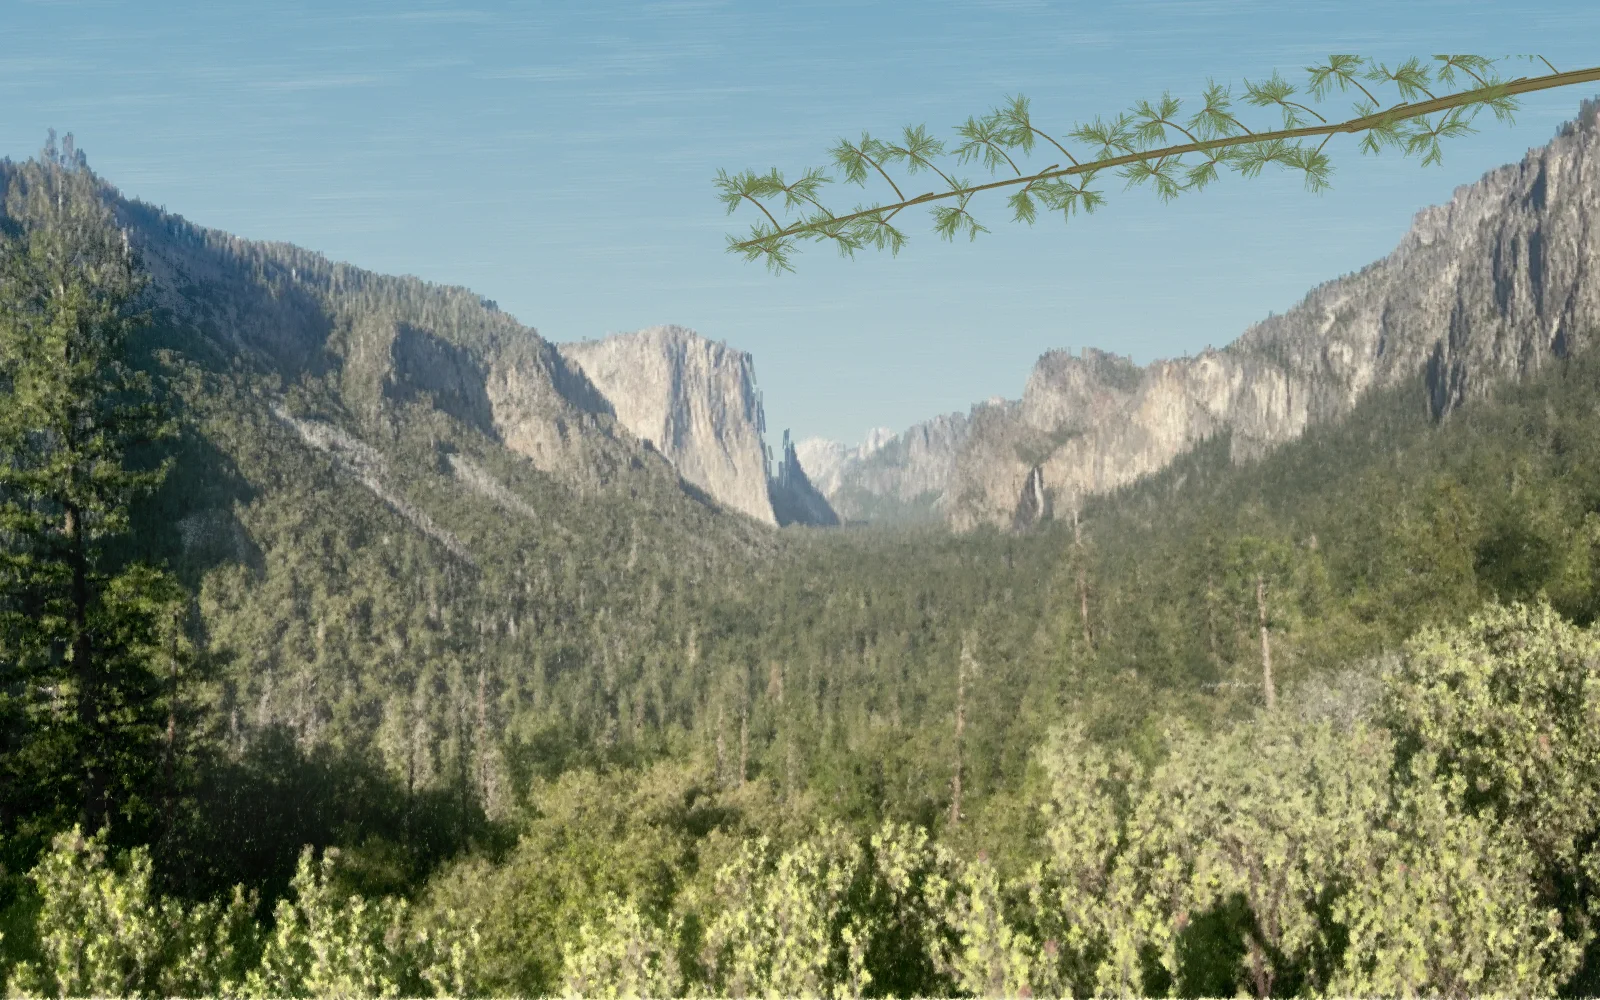
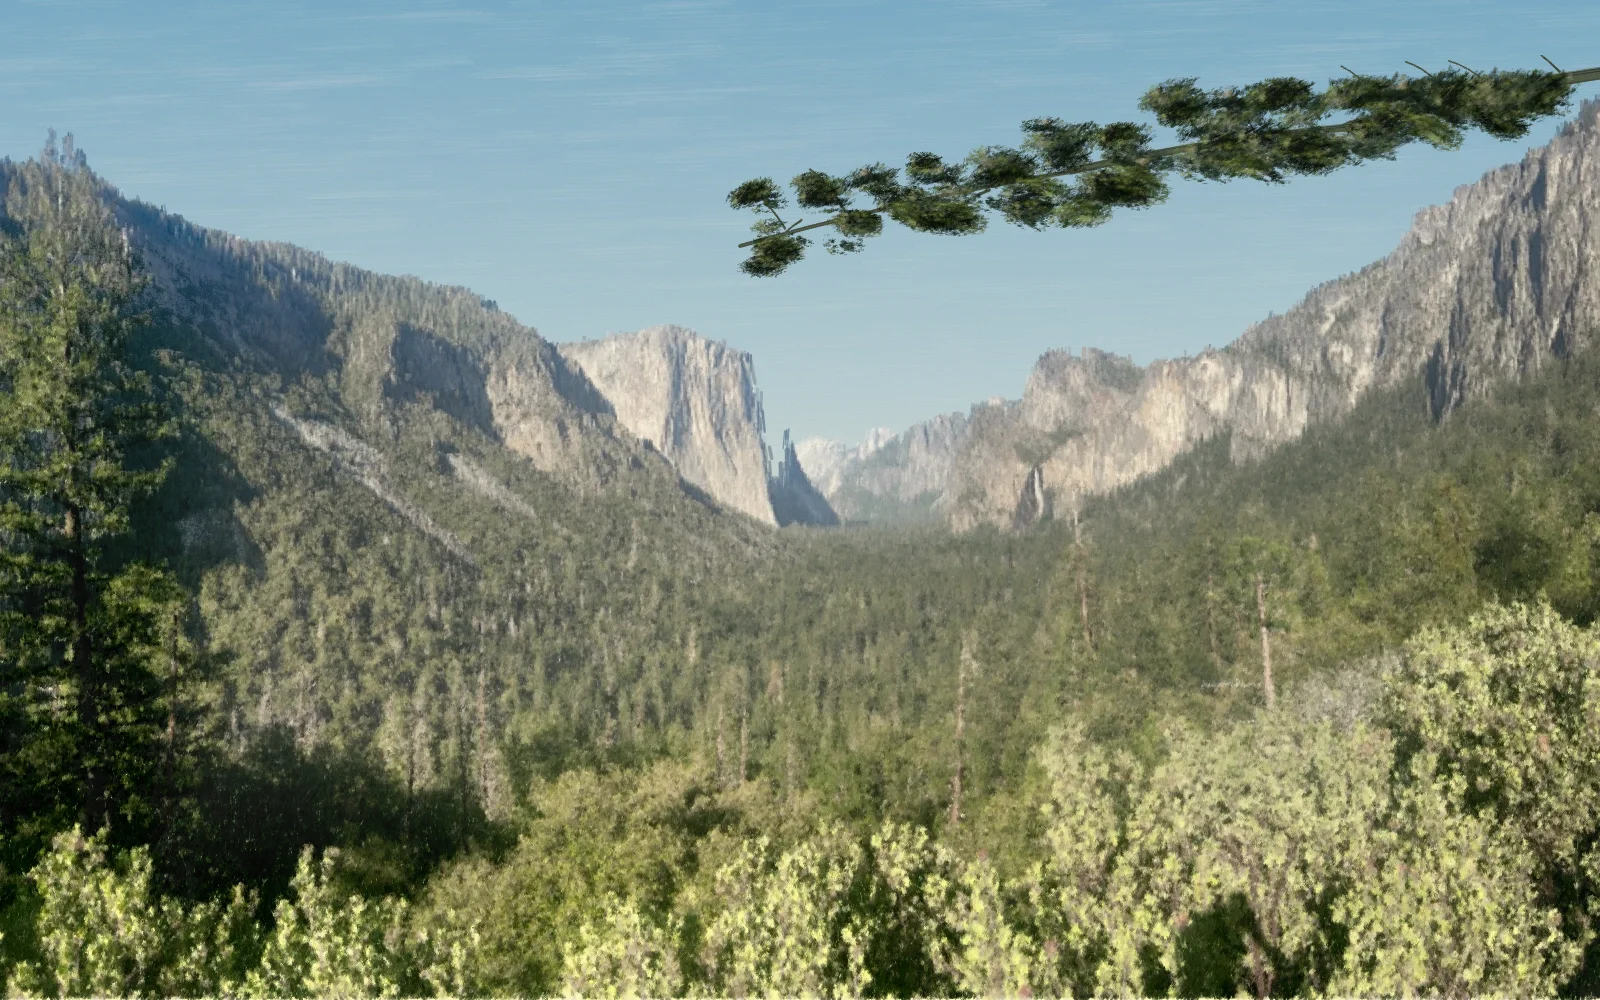
Match the upper bough to the painted foreground pine

Changed region(s): [[0.4375, 0.031, 1.0, 0.279]]

diff --git a/scene.js b/scene.js
@@ -310,9 +310,29 @@
   function cacheUpperBranch(foregroundContext){
     const sprite=document.createElement('canvas');sprite.width=900;sprite.height=260;
     const c=sprite.getContext('2d');seed=8623;
+    // Lift bristled foliage from the painted pine so the new bough shares its pigment and edges.
+    const tufts=[[35,330],[75,390],[25,510],[100,560],[50,620],[80,700]].map(([sx,sy])=>{
+      const tuft=document.createElement('canvas');tuft.width=80;tuft.height=64;
+      const tc=tuft.getContext('2d'),image=p.getImageData(sx,sy,80,64),front=foregroundContext.getImageData(sx,sy,80,64);
+      for(let y=0;y<64;y++)for(let x=0;x<80;x++){
+        const at=(y*80+x)*4,source=((sy+y)*W+sx+x)*4;
+        const r=pixels[source],g=pixels[source+1],b=pixels[source+2];
+        const edge=clamp(1-((x-40)/40)**2-((y-32)/32)**2,0,1)**1.5;
+        const alpha=front.data[at+3]/255;
+        for(let k=0;k<3;k++)image.data[at+k]=image.data[at+k]*(1-alpha)+front.data[at+k]*alpha;
+        image.data[at+3]=Math.round(255*edge*(g>b*.96&&g>r*.88?1:0));
+      }
+      for(let mark=0;mark<2300;mark++){
+        const x=range(4,76),y=range(4,60),at=(Math.floor(y)*80+Math.floor(x))*4;
+        if(rand()>image.data[at+3]/255)continue;
+        const col={r:image.data[at],g:image.data[at+1],b:image.data[at+2]};
+        stroke(tc,x,y,range(2,8),range(.7,2),col,range(-1.7,-.4),.75,2);
+      }
+      return tuft;
+    });
     const twig=(x,y,endX,endY,width)=>{
       for(let bristle=0;bristle<5;bristle++){
-        c.strokeStyle=bristle%2?'rgba(77,72,48,.9)':'rgba(135,126,85,.72)';
+        c.strokeStyle=bristle%2?'rgba(47,57,49,.94)':'rgba(94,101,79,.7)';
         c.lineWidth=width*(1-bristle*.13);c.lineCap='round';
         c.beginPath();c.moveTo(x,y+bristle*.55);c.quadraticCurveTo((x+endX)*.5,(y+endY)*.5-9,endX,endY);c.stroke();
       }
@@ -322,17 +342,11 @@
       const x=80+i*30+range(-9,9),y=185-x*.19+range(-7,7);
       const direction=i%2?1:-1,tipX=x-range(20,55),tipY=y+direction*range(18,46);
       twig(x,y,tipX,tipY,1.1+range(0,1.4));
-      // Individual needle sprays keep an organic edge against the open sky.
-      for(let spray=0;spray<6;spray++){
-        const angle=range(-Math.PI,Math.PI),length=range(16,38);
-        const endX=tipX+Math.cos(angle)*length,endY=tipY+Math.sin(angle)*length*.65;
-        twig(tipX,tipY,endX,endY,.65);
-        for(let needle=0;needle<22;needle++){
-          const q=range(.1,1),side=needle%2?1:-1;
-          const nx=tipX+(endX-tipX)*q,ny=tipY+(endY-tipY)*q;
-          const light=range(-15,25),col={r:99+light,g:116+light,b:66+light*.65};
-          stroke(c,nx,ny,range(7,18),range(.6,1.5),col,angle+side*range(.35,.9),.8,2);
-        }
+      for(let spray=0;spray<5;spray++){
+        const q=.25+spray*.18,size=range(.5,.9)*(.65+x/1600);
+        c.save();c.translate(x+(tipX-x)*q+range(-10,10),Math.max(40,y+(tipY-y)*q+range(-5,12)));
+        c.rotate(direction*.2+range(-.3,.3));c.scale(size*1.2,size*.7);
+        c.drawImage(tufts[(i+spray)%tufts.length],-40,-32);c.restore();
       }
     }
     const cols=90,mask=[],data=c.getImageData(0,0,900,260).data;
@@ -440,7 +454,7 @@
     const visible=foregroundGroups.filter(group=>group.canopy.some(patch=>Math.min(right,patch.x+patch.rect[2])-Math.max(left,patch.x)>=12));
     const results=await Promise.allSettled(visible.map(group=>{
       if(!foregroundLoads.has(group.atlas))foregroundLoads.set(group.atlas,(async()=>{
-        const url=new URL(group.atlas,foregroundManifest);url.searchParams.set('v','forest-1');
+        const url=new URL(group.atlas,foregroundManifest);url.searchParams.set('v','pine-1');
         const atlas=await loadImage(url.href);
         canopy.push(...group.canopy.map(record=>({...record,sprite:{image:atlas,rect:record.rect,width:record.rect[2],height:record.rect[3]}})));
         fit();
@@ -452,7 +466,7 @@
   }
   async function loadLiveAssets(){
     try{
-      const url=new URL('assets/yosemite-live-p4.json',location.href);
+      const url=new URL('assets/yosemite-live-p4.json?v=pine-1',location.href);
       const response=await fetch(url,{priority:'low'});if(!response.ok)throw new Error('Live manifest unavailable');
       const data=await response.json();if(data.version!==2||data.skyline.length!==W)throw new Error('Invalid scene assets');
       const atlas=await loadImage(new URL(data.atlas,url).href);
@@ -468,7 +482,7 @@
   }
   async function startScene(){
     if(new URLSearchParams(location.search).has('bake')){await prepareAuthoring();return;}
-    try{showPainting(await loadImage('assets/yosemite-display-p4.webp?v=forest-1','high'));}
+    try{showPainting(await loadImage('assets/yosemite-display-p4.webp?v=pine-1','high'));}
     catch{try{showPainting(await loadImage('assets/yosemite-painting.webp?v=cliffs-2','high'));}catch{document.documentElement.dataset.sceneReady='error';return;}}
     // Yield a frame so the finished painting is visible before preparing live layers.
     requestAnimationFrame(()=>loadLiveAssets());

diff --git a/index.html b/index.html
@@ -7,7 +7,7 @@
   <meta name="description" content="Yosemite Valley, painted and alive. A study of granite, wind, clouds, and falling water.">
   <title>Yash Kalani</title>
   <script>try{if(sessionStorage.getItem('postcard-cloud-arrival')===location.pathname){document.documentElement.classList.add('cloud-arrival');window.cloudFallback=setTimeout(()=>document.documentElement.classList.remove('cloud-arrival'),3000)}}catch{}</script>
-  <link rel="preload" as="image" href="assets/yosemite-display-p4.webp?v=forest-1" fetchpriority="high">
+  <link rel="preload" as="image" href="assets/yosemite-display-p4.webp?v=pine-1" fetchpriority="high">
   <link rel="stylesheet" href="style.css">
   <link rel="stylesheet" href="cloud-transition.css">
   <script src="scene.js" defer></script>

diff --git a/landscapes/yosemite.md b/landscapes/yosemite.md
@@ -53,6 +53,8 @@ Portrait focus was adjusted to58.5% across the logical canvas so Bridalveil Fall
 
 Home uses matching `p4` display, live manifest, and foreground atlases. A tapered pine branch enters from the upper right, with individually painted needle sprays and a subtle shared-wind sway. Its cached mask participates in the bird visibility measurement. Moving bush cutouts and the static foreground share lifted warm greens and stronger local contrast, preserving the original foliage silhouettes.
 
+The upper bough samples pigment from the existing painted pine and its foreground grade. Dense, tapered sprays use fine bristle marks, dark bark, and broken edges to match that tree rather than separate star-shaped needle clusters. Keep the foliage within the sprite bounds and regenerate its bird-occlusion mask when rebaking.
+
 Use `node scripts/bake-assets.cjs --foreground-only` to regenerate these layers from the existing terrain painting without repainting the granite. The normal bake command still rebuilds the complete painting. Verify desktop, portrait, wide crops, motion, and bird occupancy after changing branch geometry.
 
 Background foliage receives a cool transparent glaze that fades out toward the near trees. Bake it into the display and canopy layers; retain the ungraded terrain cache so repeated bakes cannot compound the darkening. Preserve the warm foreground highlights and the granite and sky values.
